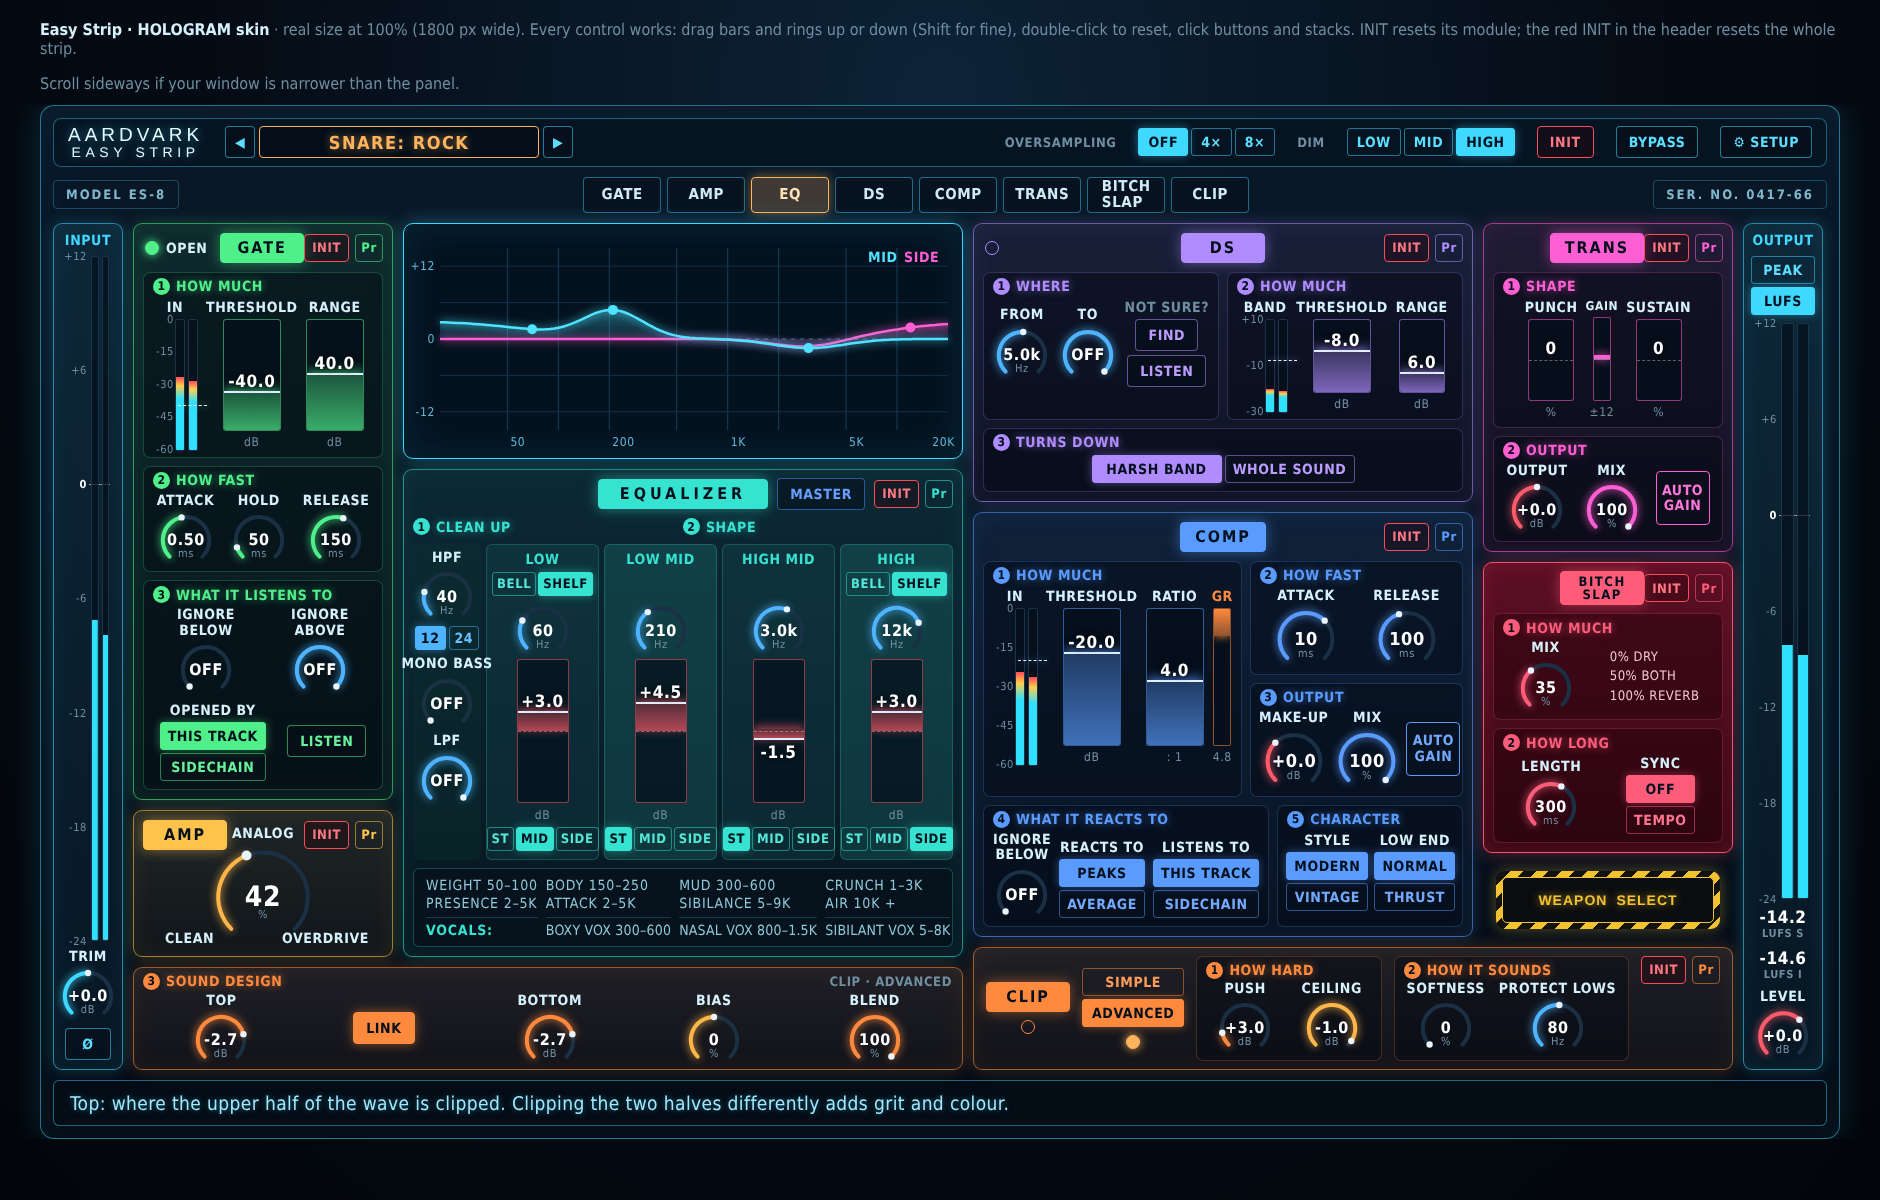
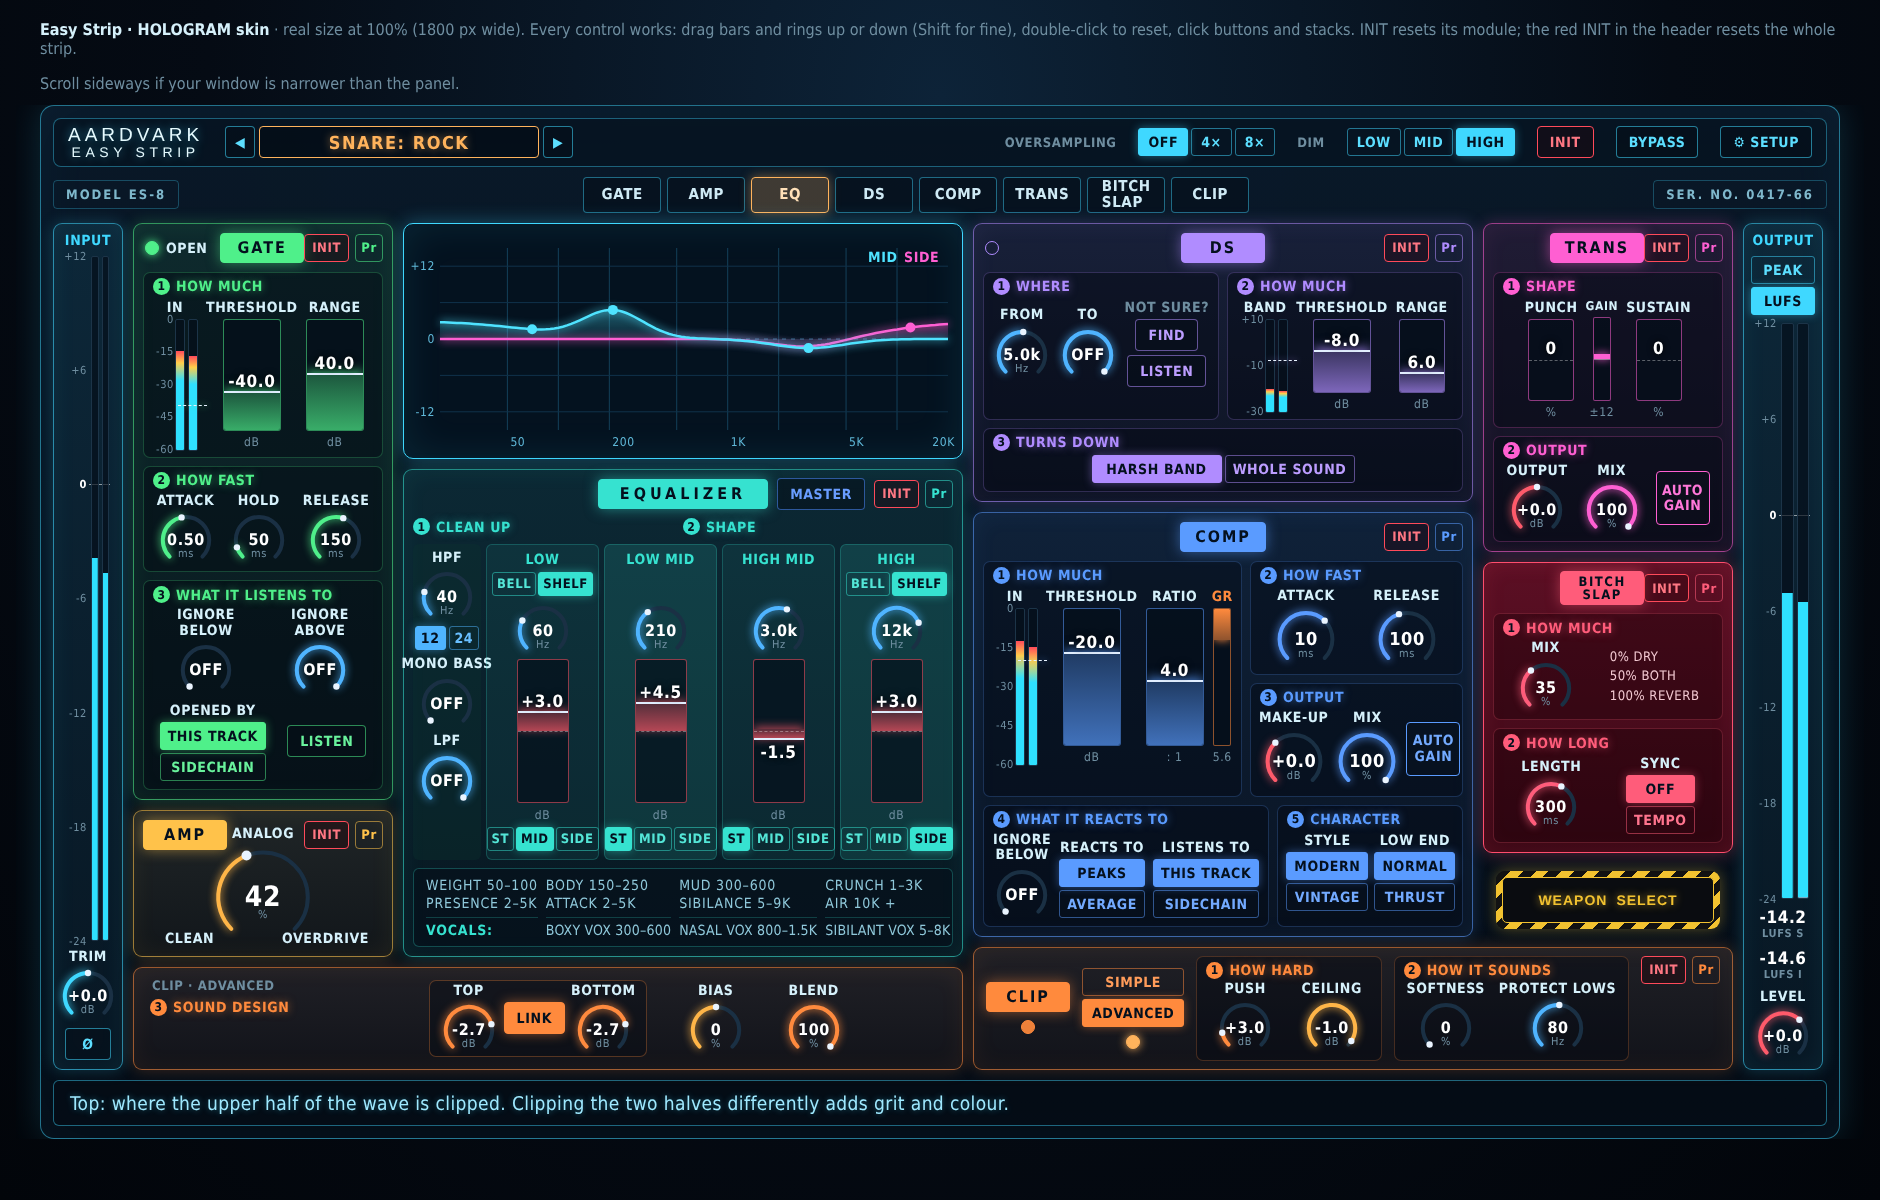
DevTools: tighter Clip ADVANCED row, TOP/LINK/BOTTOM grouped (HOLOGRAM) [skip ci]
Claude-Session: https://claude.ai/code/session_01KRn7UbAFWVf9LHLqhN9U6j

diff --git a/DevTools/Look/Strip/strip_wireframe_hologram_digital.html b/DevTools/Look/Strip/strip_wireframe_hologram_digital.html
@@ -140,8 +140,12 @@ body{margin:0;background:radial-gradient(ellipse at 50% 8%,#0d2338 0%,#050b14 55
 .clip .sec{flex:1;padding-top:24px}
 .bay{display:flex;min-height:0}.bay>*{flex:1}
 [hidden]{display:none!important}
-.cadv{padding:24px 10px 4px;justify-content:center}
-.adtag{position:absolute;top:6px;right:10px;color:var(--dim);font-weight:600;font-size:13px}
+.cadv{flex-direction:row!important;align-items:center;gap:36px;padding:6px 16px}
+.cadv .ahd{display:flex;flex-direction:column;gap:6px;align-self:flex-start;padding-top:4px}
+.cadv .ahd .sh{position:static}
+.cadv .acts{flex:1;display:flex;align-items:center;justify-content:center;gap:40px}
+.cadv .unit{display:flex;align-items:center;gap:6px;padding:2px 10px;border:1px solid color-mix(in srgb,var(--t) 30%,transparent);border-radius:7px;background:rgba(2,8,16,.35)}
+.adtag{color:var(--dim);font-weight:600;font-size:13px;padding-left:2px}
 .eqh{display:grid;grid-template-columns:68px repeat(4,minmax(0,1fr));gap:5px;height:18px}
 .eqh .sh{position:static;white-space:nowrap}
 .sh i{flex:none}
@@ -261,14 +265,16 @@ body{margin:0;background:radial-gradient(ellipse at 50% 8%,#0d2338 0%,#050b14 55
   <div class="bay" style="grid-column:2/4;grid-row:2">
     <div class="scan" id="bayScan"></div>
     <div class="mod m-clip cadv" id="cAdv" hidden>
-      <div class="sh"><i>3</i>SOUND DESIGN</div><div class="adtag">CLIP · ADVANCED</div>
-        <div class="r" style="align-items:center">
+      <div class="ahd"><div class="adtag">CLIP · ADVANCED</div><div class="sh"><i>3</i>SOUND DESIGN</div></div>
+      <div class="acts">
+        <div class="unit">
           <div class="ring sm" id="kTop" data-l="TOP" data-min="-12" data-max="0" data-def="0" data-f="db1" data-u="dB" data-link="kBot" data-tip="Top: where the upper half of the wave is clipped. Clipping the two halves differently adds grit and colour."></div>
           <div class="btn tg on" id="kLink" style="--t:#ff8a3d" data-tip="Link: TOP and BOTTOM move together. Unlink to clip each half of the wave differently.">LINK</div>
           <div class="ring sm" id="kBot" data-l="BOTTOM" data-min="-12" data-max="0" data-def="0" data-f="db1" data-u="dB" data-link="kTop" data-tip="Bottom: where the lower half of the wave is clipped."></div>
+        </div>
           <div class="ring sm gold" data-l="BIAS" data-min="-100" data-max="100" data-def="0" data-f="spct" data-u="%" data-tip="Bias: tilts the wave before clipping for a warmer, tube-like edge. The middle changes nothing."></div>
           <div class="ring sm" data-l="BLEND" data-min="0" data-max="100" data-def="100" data-f="pct" data-u="%" data-tip="Blend: 100% is all clipped. Lower mixes the untouched sound back in (parallel clipping)."></div>
-        </div>
+      </div>
     </div>
   </div>
 
